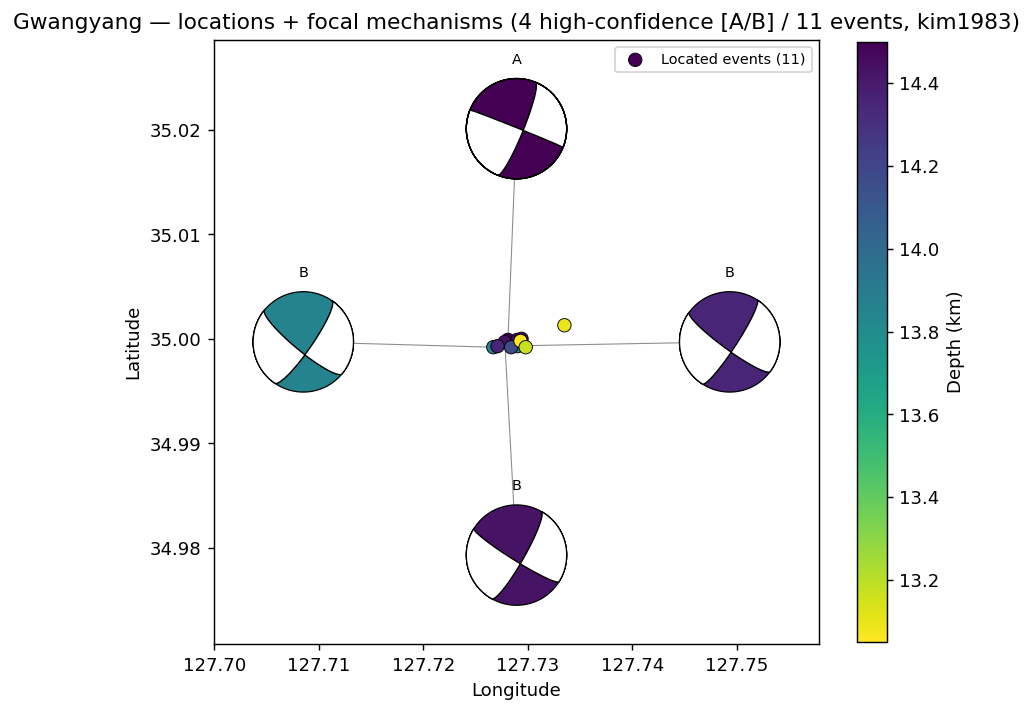
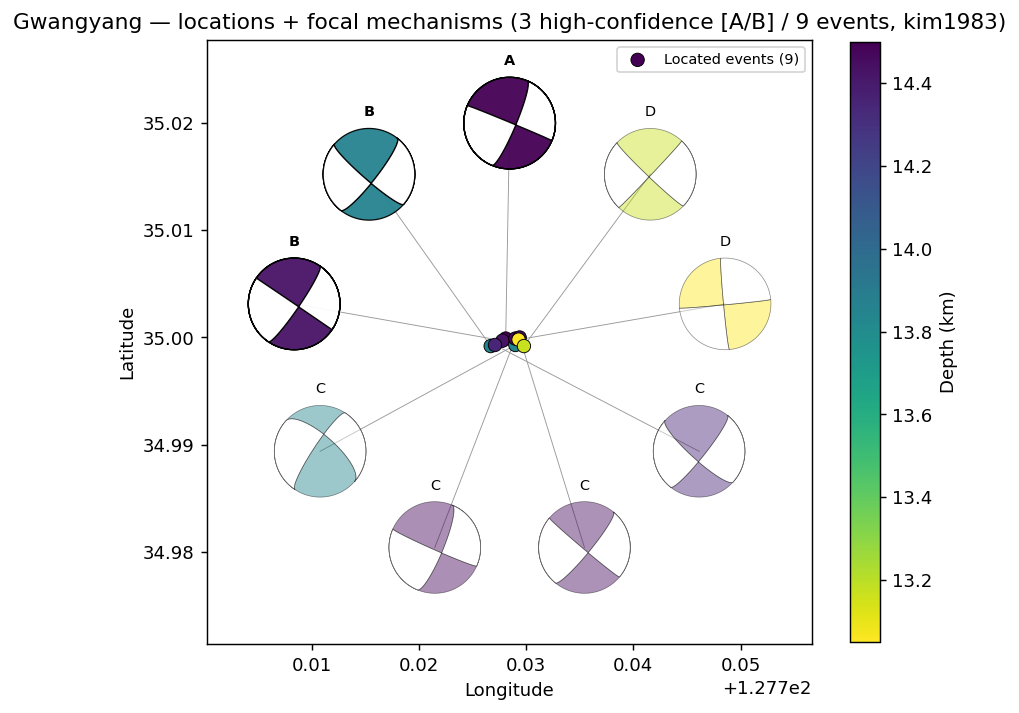
FM data-quality gates + tunable gap thresholds + fault-coordinate sections; run all clusters
Answering pre-scale-up questions:
- Q1: polarities now gated by pick probability (fm_min_pick_prob=0.5), not just
  |polarity|. Q2: S/P ratios gated by SNR (fm_sp_min_snr=3) using a pre-P noise
  window from the SAC. (Gwangyang: dropped 37 polarities + 60 ratios; still 3 A/B.)
- Q3: mainshock cross-correlation trick (tight window + wide band) is faithfully
  applied via gwangyang.xcorr_pair_overrides; other clusters correctly have none.
- Q4: new viz.fault_sections — relocated catalog rotated into the fault frame
  (map view with nodal planes + along/across-strike depth sections), strike from
  the largest-magnitude focal mechanism. map_mechanisms now shows all grades
  (A/B bold, C/D faint). 03_results.ipynb adds the fault-coordinate section.

Ran the full phasenet_plus pipeline + focal mechanisms for all 4 clusters. Only
Gwangyang (deep ~14 km, all-around stations) yields well-constrained A/B
mechanisms; Jangsung/Kimcheon (shallow → takeoff gap) and Gyeongju (one-sided →
azimuthal gap) relocate fine but grade D. fm_max_agap/fm_max_pgap (relaxed to
180/90) are tunable skip thresholds; SKHASH still floors the grade to D for
gap>90/60. Mechanism quality reflects focal-sphere coverage, not magnitude.

diff --git a/pipeline/viz.py b/pipeline/viz.py
@@ -275,31 +275,132 @@ def map_mechanisms(cfg, velmodel=None, quality_keep=("A", "B"), ax=None):
                     s=55, edgecolor="k", lw=0.5, zorder=4, label=f"Located events ({len(m)})")
     plt.colorbar(sc, ax=ax, label="Depth (km)", shrink=0.8)
 
-    hi = m[m.quality.isin(list(quality_keep))].reset_index(drop=True)
+    keep = m[m.quality.isin(list(quality_keep))]
+    disp = m.reset_index(drop=True)                     # all mechanisms; A/B bold, C/D faint
     clon, clat = float(m.origin_lon.mean()), float(m.origin_lat.mean())
     ext = max(m.origin_lon.max() - m.origin_lon.min(),
               m.origin_lat.max() - m.origin_lat.min(), 0.012)
     R = ext * 1.7                                       # ring radius from centroid
-    n = max(len(hi), 1)
-    bwidth = min(ext * 0.8, 2 * np.pi * R / n * 0.55)   # diameter; shrink if ring is crowded
-    for i, r in hi.iterrows():
+    n = max(len(disp), 1)
+    bwidth = min(ext * 0.8, 2 * np.pi * R / n * 0.6)    # diameter; shrink if ring is crowded
+    for i, r in disp.iterrows():
+        is_hi = r.quality in quality_keep
         ang = 2 * np.pi * i / n + np.pi / 2
         bx, by = clon + R * np.cos(ang), clat + R * np.sin(ang)
-        ax.plot([r.origin_lon, bx], [r.origin_lat, by], "-", color="0.55", lw=0.6, zorder=3)
+        ax.plot([r.origin_lon, bx], [r.origin_lat, by], "-", color="0.6", lw=0.5, zorder=3)
         ax.add_collection(beach((r.strike, r.dip, r.rake), xy=(bx, by), width=bwidth,
                                 facecolor=cmap(norm(r.origin_depth_km)), edgecolor="k",
-                                linewidth=0.7, zorder=5))
-        ax.text(bx, by + bwidth * 0.62, f"{r.quality}", ha="center", va="bottom",
-                fontsize=8, zorder=6)
+                                linewidth=0.7 if is_hi else 0.4,
+                                alpha=0.95 if is_hi else 0.45, zorder=5 if is_hi else 4))
+        ax.text(bx, by + bwidth * 0.6, r.quality, ha="center", va="bottom", fontsize=8,
+                fontweight="bold" if is_hi else "normal", zorder=6)
     pad = R + bwidth * 0.7 + ext * 0.15            # zoom to the cluster + beachball ring
     ax.set_xlim(clon - pad, clon + pad)
     ax.set_ylim(clat - pad, clat + pad)
     ax.set_aspect("equal", "box")
     ax.set(xlabel="Longitude", ylabel="Latitude",
            title=f"{cfg.region} — locations + focal mechanisms "
-                 f"({len(hi)} high-confidence [{'/'.join(quality_keep)}] / {len(m)} events, {velmodel})")
+                 f"({len(keep)} high-confidence [{'/'.join(quality_keep)}] / {len(m)} events, {velmodel})")
     ax.legend(loc="best", fontsize=8)
     return ax.figure
+
+
+def _fault_ref(cfg, velmodel=None):
+    """Reference (strike, dip, rake, cuspid, magnitude) for the fault sections = the
+    largest-magnitude high-confidence (A/B) mechanism; fallback = best-quality available.
+    None if there are no mechanisms."""
+    velmodel = velmodel or cfg.fm_velmodel
+    path = config.fm_mech_csv(cfg, velmodel)
+    if not os.path.exists(path):
+        return None
+    m = pd.read_csv(path).sort_values("quality").drop_duplicates("event_id", keep="first")
+    hi = m[m.quality.isin(list(cfg.fm_quality_keep))]
+    pool = hi if len(hi) else m
+    if not len(pool):
+        return None
+    if "magnitude" in pool.columns and pool["magnitude"].notna().any() and pool["magnitude"].max() > 0:
+        r = pool.sort_values("magnitude", ascending=False).iloc[0]
+    else:
+        r = pool.iloc[0]                                    # best quality (already sorted)
+    return dict(strike=float(r.strike), dip=float(r.dip), rake=float(r.rake),
+                cuspid=int(r.cuspid), quality=str(r.quality),
+                mag=float(r.magnitude) if "magnitude" in r and pd.notna(r.magnitude) else float("nan"),
+                event_id=str(r.event_id))
+
+
+def fault_sections(cfg, velmodel=None, strike=None, dip=None, color_by="depth"):
+    """Strike-parallel + strike-perpendicular depth sections and a fault-plane map view of the
+    HypoDD-relocated catalog, centred on a reference event. Strike/dip default to the
+    largest-magnitude high-confidence focal mechanism (override with `strike`/`dip`).
+
+    Map view: relative E–N km with the two nodal-plane lines + the reference beachball. Sections:
+    along-strike and across-strike (the latter with the dashed fault line at the reference dip).
+    Needs a HypoDD `.reloc` (run ph2dt→dtcc) and, for the default strike, a focal-mechanism run."""
+    from obspy.imaging.beachball import beach
+    velmodel = velmodel or cfg.fm_velmodel
+    reloc = os.path.join(config.dtcc_dir(cfg), "hypoDD.reloc")
+    if not os.path.exists(reloc):
+        reloc = os.path.join(config.dtct_dir(cfg), "hypoDD.reloc")
+    fig, axes = plt.subplots(1, 3, figsize=(16, 5.4), dpi=120)
+    if not os.path.exists(reloc):
+        axes[1].set_title(f"{cfg.region}: no HypoDD reloc (run ph2dt→dtcc first)"); return fig
+    d = sumio.read_reloc(reloc)
+    if not len(d):
+        axes[1].set_title(f"{cfg.region}: empty reloc"); return fig
+    ref = _fault_ref(cfg, velmodel)
+    if strike is None:
+        strike = ref["strike"] if ref else None
+    if dip is None:
+        dip = ref["dip"] if ref else 90.0
+    if strike is None:
+        axes[1].set_title(f"{cfg.region}: no focal mechanism — pass strike=/dip=")
+        return fig
+
+    refrow = d[d.id == ref["cuspid"]] if ref else d.iloc[0:0]
+    x0, y0, z0 = (float(refrow.iloc[0].x), float(refrow.iloc[0].y), float(refrow.iloc[0].z)) \
+        if len(refrow) else (float(d.x.mean()), float(d.y.mean()), float(d.z.mean()))
+    rx, ry = (d.x - x0).to_numpy(), (d.y - y0).to_numpy()        # metres, relative to ref
+    th = np.deg2rad(90.0 - strike)
+    along = (rx * np.cos(th) + ry * np.sin(th)) / 1000.0         # km
+    across = (-rx * np.sin(th) + ry * np.cos(th)) / 1000.0
+    dep = -(d.z.to_numpy() - z0) / 1000.0                        # km, +down, relative to ref
+    cvals = d.depth.to_numpy() if color_by == "depth" else d.mag.to_numpy()
+    mag = d.mag.to_numpy()
+    sz = 25 + 12 * np.clip(mag, 0, None) ** 2 if np.nanmax(mag) > 0 else np.full(len(d), 45.0)
+    cmap = plt.get_cmap("viridis_r")
+    L = max(np.ptp(rx), np.ptp(ry)) / 1000.0 or 0.5             # map half-extent scale (km)
+
+    # panel 1 — fault-plane map view (relative E–N km)
+    ax = axes[0]
+    for s_az, ls in ((strike, "-"), (strike + 90, "--")):
+        dx, dy = np.sin(np.deg2rad(s_az)), np.cos(np.deg2rad(s_az))
+        ax.plot([-L * dx, L * dx], [-L * dy, L * dy], color="0.4", lw=0.9, ls=ls, zorder=1)
+    ax.scatter(rx / 1000.0, ry / 1000.0, c=cvals, cmap=cmap, s=sz, edgecolor="k", lw=0.4, zorder=3)
+    if ref and not np.isnan(ref["rake"]):
+        ax.add_collection(beach((strike, dip, ref["rake"]), xy=(-0.8 * L, 0.8 * L),
+                                width=0.5 * L, facecolor="0.5", edgecolor="k", linewidth=0.6, zorder=4))
+    ax.set(xlabel="E (km)", ylabel="N (km)", xlim=(-1.1 * L, 1.1 * L), ylim=(-1.1 * L, 1.1 * L),
+           title=f"Fault-plane map view (strike {strike:.0f}°)")
+    ax.set_aspect("equal", "box")
+
+    # panels 2,3 — along- and across-strike depth sections
+    for ax, dist, lab in ((axes[1], along, "Along-strike"), (axes[2], across, "Across-strike")):
+        sc = ax.scatter(dist, dep, c=cvals, cmap=cmap, s=sz, edgecolor="k", lw=0.4, zorder=3)
+        ax.invert_yaxis()
+        ax.set(xlabel="Distance (km)", ylabel="Depth rel. to reference (km)", title=lab)
+        ax.set_aspect("equal", "box")
+    # dashed fault line at the reference dip on the across-strike panel (clipped to the data
+    # depth range so a near-vertical dip doesn't blow up the axis)
+    xl, yl = axes[2].get_xlim(), axes[1].get_ylim()
+    xx = np.linspace(xl[0], xl[1], 50)
+    axes[2].plot(xx, xx * np.tan(np.deg2rad(dip)), color="k", lw=0.9, ls="--", zorder=1)
+    axes[2].set_xlim(xl); axes[2].set_ylim(yl)              # share the along-strike depth range
+
+    plt.colorbar(sc, ax=axes, label="Depth (km)" if color_by == "depth" else "Magnitude", shrink=0.7)
+    rinfo = f"ref {ref['event_id']} (M{ref['mag']:.1f}, {ref['quality']})" if ref else "centroid"
+    fig.suptitle(f"{cfg.region} — relocated seismicity in fault coordinates "
+                 f"[strike {strike:.0f}°, dip {dip:.0f}°; {rinfo}]", fontsize=12)
+    return fig
 
 
 def compare_epicenters(cfg, velmodel="kim1983", variant="default"):

diff --git a/pipeline/core/focal_mechanism.py b/pipeline/core/focal_mechanism.py
@@ -23,6 +23,7 @@ import os
 import subprocess
 import sys
 
+import numpy as np
 import pandas as pd
 
 from pipeline import config
@@ -41,6 +42,26 @@ def _vmodel_depth_vp(cfg, velmodel):
     if vm is None or not vm.p_rows:
         raise ValueError(f"velocity model {velmodel!r} has no p_rows for SKHASH takeoff tracing")
     return sorted(((float(d), float(v)) for v, d in vm.p_rows))
+
+
+def _pre_p_noise(wf_dir, eid, net, sta, sensor, p_time, pre=(2.0, 0.3)):
+    """Peak |amplitude| over the 3 components in a pre-P window [P-pre[0], P-pre[1]] s — the noise
+    level for the S/P SNR gate. Mirrors how PhaseNet+ measures signal amplitude (peak over comps).
+    Returns 0.0 if the waveforms can't be read (→ the ratio is then dropped)."""
+    from obspy import read, UTCDateTime
+    pt = UTCDateTime(str(p_time))
+    peak = 0.0
+    for c in ("Z", "N", "E"):
+        fs = glob.glob(f"{wf_dir}/{eid}.*.{sta}.{sensor}{c}.sac")
+        if not fs:
+            continue
+        try:
+            w = read(fs[0])[0].detrend("demean").slice(pt - pre[0], pt - pre[1])
+            if len(w.data):
+                peak = max(peak, float(np.max(np.abs(w.data))))
+        except Exception:  # noqa: BLE001
+            pass
+    return peak
 
 
 def run_focal_mechanism(cfg, velmodel=None, num_cpus=1) -> dict:
@@ -73,7 +94,10 @@ def run_focal_mechanism(cfg, velmodel=None, num_cpus=1) -> dict:
     cat.to_csv(catfile, index=False)
 
     # ---- per-event polarity + S/P ratio from the phasenet_plus picks ----
+    # Data-quality gates: (Q1) drop polarities from P picks with probability < fm_min_pick_prob;
+    # (Q2) drop S/P ratios whose P or S SNR (vs a pre-P noise window) < fm_sp_min_snr.
     pol_rows, amp_rows, st_used = [], [], {}
+    n_pol_lowprob = n_sp_lowsnr = 0
     for cusp in sm.id.astype(int):
         eid = cusp2eid.get(int(cusp))
         pf = config.picks_csv(cfg, eid) if eid else None
@@ -83,6 +107,7 @@ def run_focal_mechanism(cfg, velmodel=None, num_cpus=1) -> dict:
         if "Polarity" not in pk.columns:
             raise ValueError(f"{pf} has no Polarity column — focal mechanisms need a "
                              f"phasenet_plus picking run (picker_weights='phasenet_plus').")
+        wfdir = config.event_wf_dir(cfg, eid)
         for (net, sta), g in pk.groupby(["Network", "Station"]):
             key = (str(net), str(sta))
             if key not in coord:
@@ -93,16 +118,26 @@ def run_focal_mechanism(cfg, velmodel=None, num_cpus=1) -> dict:
             P, S = g[g.Phase == "P"], g[g.Phase == "S"]
             if not len(P):
                 continue
-            pol = P.iloc[0].Polarity
-            pol = 0.0 if pd.isna(pol) else float(pol)
-            pol_rows.append(dict(event_id=int(cusp), station=sta, network=net,
-                                 location="--", channel=chan, p_polarity=round(pol, 3)))
+            prow = P.iloc[0]
+            # (Q1) pick-probability gate on the polarity
+            if float(prow.Probability) < cfg.fm_min_pick_prob:
+                n_pol_lowprob += 1
+            else:
+                pol = 0.0 if pd.isna(prow.Polarity) else float(prow.Polarity)
+                pol_rows.append(dict(event_id=int(cusp), station=sta, network=net,
+                                     location="--", channel=chan, p_polarity=round(pol, 3)))
+            # (Q2) S/P amplitude ratio with an SNR gate (pre-P noise from the SAC)
             if cfg.fm_use_sp_ratio and len(S):
-                pamp, samp = float(P.iloc[0].Amplitude), float(S.iloc[0].Amplitude)
+                pamp, samp = float(prow.Amplitude), float(S.iloc[0].Amplitude)
                 if pamp > 0 and samp > 0:
-                    amp_rows.append(dict(event_id=int(cusp), station=sta, network=net,
-                                         location="--", channel=chan,
-                                         sp_ratio=round(samp / pamp, 5)))
+                    noise = _pre_p_noise(wfdir, eid, net, sta, sensor, prow.Time)
+                    snr_ok = noise > 0 and min(pamp, samp) / noise >= cfg.fm_sp_min_snr
+                    if snr_ok:
+                        amp_rows.append(dict(event_id=int(cusp), station=sta, network=net,
+                                             location="--", channel=chan,
+                                             sp_ratio=round(samp / pamp, 5)))
+                    else:
+                        n_sp_lowsnr += 1
 
     polfile = os.path.join(in_dir, "pol.csv")
     pd.DataFrame(pol_rows).to_csv(polfile, index=False)
@@ -132,7 +167,8 @@ def run_focal_mechanism(cfg, velmodel=None, num_cpus=1) -> dict:
         "outfile1": outfile1, "outfile_pol_info": os.path.join(out_dir, "out_polinfo.csv"),
         "outfolder_plots": out_dir,
         "npolmin": cfg.fm_npolmin, "min_polarity_weight": cfg.fm_min_polarity_weight,
-        "max_agap": 90, "max_pgap": 60, "delmax": cfg.fm_delmax_km, "num_cpus": num_cpus,
+        "max_agap": cfg.fm_max_agap, "max_pgap": cfg.fm_max_pgap,
+        "delmax": cfg.fm_delmax_km, "num_cpus": num_cpus,
     }
     if cfg.fm_use_sp_ratio and amp_rows:
         params["ampfile"] = ampfile
@@ -155,6 +191,8 @@ def run_focal_mechanism(cfg, velmodel=None, num_cpus=1) -> dict:
     mech.to_csv(config.fm_mech_csv(cfg, velmodel), index=False)
     keep = mech[mech["quality"].isin(list(cfg.fm_quality_keep))]
     breakdown = mech["quality"].value_counts().reindex(list("ABCD")).fillna(0).astype(int).to_dict()
+    print(f"[focal_mechanism] gates: dropped {n_pol_lowprob} polarities (pick prob < "
+          f"{cfg.fm_min_pick_prob}), {n_sp_lowsnr} S/P ratios (SNR < {cfg.fm_sp_min_snr})")
     print(f"[focal_mechanism] {cfg.name}/{velmodel}: {len(mech)} mechanisms "
           f"(polarities n={len(pol_rows)}, S/P n={len(amp_rows)}); quality {breakdown}; "
           f"{len(keep)} high-confidence [{'/'.join(cfg.fm_quality_keep)}] "

diff --git a/pipeline/config.py b/pipeline/config.py
@@ -161,10 +161,17 @@ class ClusterConfig:
     # focal mechanisms (SKHASH; only meaningful for a phasenet_plus picker run)
     fm_velmodel: str = "kim1983"             # which .sum/.arc + crustal model feeds SKHASH
     fm_min_polarity_weight: float = 0.3      # drop |phase_polarity| below this (ambiguous first motion)
+    fm_min_pick_prob: float = 0.5            # drop polarities from P picks with probability below this
     fm_quality_keep: tuple = ("A", "B")      # SKHASH quality grades kept as "high confidence"
     fm_use_sp_ratio: bool = True             # also feed S/P amplitude ratios (combined inversion)
+    fm_sp_min_snr: float = 3.0               # drop S/P ratios where P or S SNR < this (pre-P noise)
     fm_npolmin: int = 8                      # SKHASH minimum number of polarities
     fm_delmax_km: float = 120.0              # SKHASH max source-receiver distance
+    # SKHASH SKIP thresholds (relaxed so shallow / one-sided clusters still get a graded solution;
+    # NOTE SKHASH still hard-floors the quality GRADE to D when azimuthal_gap>90° or takeoff_gap>60°,
+    # so under-covered mechanisms are honestly flagged D). max_pgap is capped at 90 by SKHASH.
+    fm_max_agap: float = 180.0               # max azimuthal gap to attempt a solution
+    fm_max_pgap: float = 90.0                # max takeoff-angle gap to attempt a solution (<=90)
 
     # HYPOINVERSE
     hyp_control: HypControl = field(default_factory=HypControl)

diff --git a/README.md b/README.md
@@ -124,15 +124,15 @@ $PY -m pipeline.cli.run_pipeline --cluster gwangyang --picker phasenet_plus \
 ```
 
 The PhaseNet+ HypoDD relocation agrees with the trusted `stead` baseline to ≈100 m (depth within
-≈0.3 km). Of the 11 events, **4 are well constrained (quality A/B)** and agree closely — near-vertical,
-roughly N-striking strike-slip — consistent with a coherent fault source:
+≈0.3 km). Polarities are used only from P picks with probability ≥ `fm_min_pick_prob` (0.5), and S/P
+ratios only where the P and S SNR ≥ `fm_sp_min_snr` (3). Of the 11 events, **3 are well constrained
+(quality A/B)** and agree closely — near-vertical, roughly N-striking strike-slip — a coherent fault source:
 
 | Event | Quality | Strike | Dip | Rake | Fault-plane uncert. | P polarities | S/P ratios |
 |---|---|---|---|---|---|---|---|
-| 20210827220322 | A | 22 | 78 | −178 | 19° | 47 | 50 |
-| 20210827002315 | B | 30 | 76 | 170 | 17° | 33 | 50 |
-| 20210720161418 | B | 35 | 74 | 163 | 32° | 14 | 26 |
-| 20260202194119 | B | 33 | 78 | 166 | 26° | 14 | 32 |
+| 20210827220322 | A | 23 | 77 | −179 | 18° | 46 | 49 |
+| 20210827002315 | B | 34 | 80 | −180 | 12° | 33 | 43 |
+| 20210720161418 | B | 38 | 76 | 169 | 27° | 14 | 16 |
 
 ![Gwangyang locations and focal mechanisms](docs/figs/gwangyang_focal_mechanisms.png)
 
@@ -142,7 +142,16 @@ secondary enhancement. The lower-quality (C/D) solutions are kept only for conte
 
 `03_results.ipynb` shows all the key figures together: locations (absolute `.sum` + dt.ct/dt.cc
 relocation), **picks with first-motion polarity** (`viz.plot_3c` + `viz.plot_polarities`, a P-aligned
-record section sorted by azimuth), and the focal mechanisms above.
+record section sorted by azimuth), the focal mechanisms above, and **`viz.fault_sections`** — the
+relocated catalog rotated into the fault frame (map view with nodal planes + along-/across-strike
+sections) using the largest-magnitude mechanism's strike.
+
+**Other clusters.** All four clusters relocate (locations + dt.cc), but only **Gwangyang** has the
+focal-sphere coverage for *well-constrained* mechanisms. Jangsung/Kimcheon events are shallow (~0.3–6 km),
+so the steep takeoffs are unsampled (takeoff gap > 60°); Gyeongju's stations are one-sided (azimuthal
+gap > 90°). With the SKIP thresholds relaxed (`fm_max_agap`/`fm_max_pgap`) those clusters still get
+mechanisms, but SKHASH grades them **D** (under-constrained) — a magnitude-2.4 event is no exception, as
+mechanism resolvability depends on focal-sphere coverage, not magnitude.
 
 ## Adding a new cluster
 

diff --git a/CLAUDE.md b/CLAUDE.md
@@ -33,13 +33,22 @@ hypoinverse run; SKHASH ray-traces takeoff angles from the cluster velocity mode
 from the station geometry (no `.arc` parsing). Writes `runs/<cluster>/3.FocalMech/<vm>/{IN,OUT,
 mechanisms.csv}` + beachballs; keeps quality **A/B** (`cfg.fm_quality_keep`). Polarity is the robust
 signal (vertical first motion); the vertical-component S/P ratio is a secondary enhancement
-(`cfg.fm_use_sp_ratio`). Validated on Gwangyang: 4/11 events A/B, all consistent ~N-striking strike-slip.
+(`cfg.fm_use_sp_ratio`). **Data-quality gates:** polarities only from P picks with prob ≥
+`fm_min_pick_prob` (0.5); S/P ratios only where P & S SNR ≥ `fm_sp_min_snr` (3, vs a pre-P noise window).
+**Coverage:** mechanism quality is set by focal-sphere coverage, NOT magnitude — SKHASH skips/floors-to-D
+when azimuthal gap > 90° or takeoff gap > 60° (the grade thresholds are hardcoded in SKHASH). `fm_max_agap`
+/`fm_max_pgap` (relaxed to 180/90) are the *skip* thresholds so coverage-limited clusters still get a
+graded (often D) solution. Validated: **Gwangyang 3/11 events A/B** (deep ~14 km, all-around stations),
+consistent ~N-striking strike-slip; **Jangsung/Kimcheon** (shallow ~0.3–6 km → takeoff gap) and
+**Gyeongju** (one-sided stations → azimuthal gap) relocate fine but yield only **D** mechanisms.
 **Results viewer:** `notebooks/03_results.ipynb` (cluster-parameterized) shows the key figures together —
 locations (`viz.map_catalog` .sum + dt.ct/dt.cc reloc, `depth_sections`, `compare_epicenters`), **picks +
 first-motion polarity** (`viz.plot_3c` marks the P polarity; `viz.plot_polarities` is a P-aligned record
 section sorted by azimuth, red=up/blue=down), and focal mechanisms (`viz.map_mechanisms` beachballs on a
-leader-line ring + `viz.mechanism_table` + the SKHASH gallery). The phasenet_plus run goes through the full
-relocation chain; its HypoDD reloc matches the stead baseline to ≈100 m.
+leader-line ring + `viz.mechanism_table` + the SKHASH gallery), and **`viz.fault_sections`** (relocated
+catalog rotated into the fault frame — map view + along/across-strike depth sections — using the
+largest-magnitude mechanism's strike). The phasenet_plus run goes through the full relocation chain; its
+HypoDD reloc matches the stead baseline to ≈100 m.
 
 **External (NOT vendored, like the binaries; env-overridable in `config.py`):** EQNet clone `$EQNET_DIR`
 (+ `$EQNET_WEIGHTS`) for phasenet_plus; SKHASH `$SKHASH_DIR` for focal mechanisms.